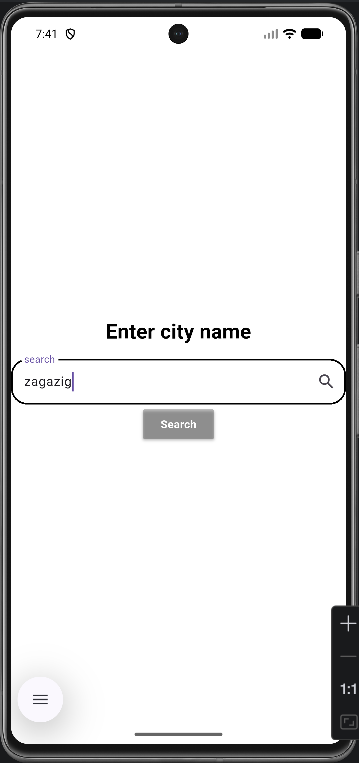
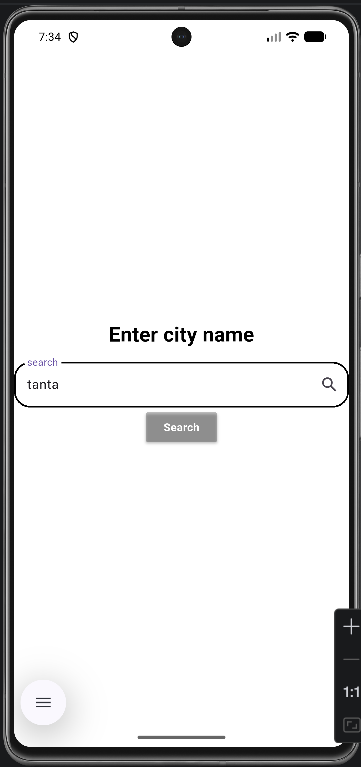
updating

Changed region(s): [[0.0, 0.0, 1.0, 1.0], [0.0919, 0.9043, 0.1532, 0.9345]]

diff --git a/Task-19/weather_app/lib/screens/Home.dart b/Task-19/weather_app/lib/screens/Home.dart
@@ -15,165 +15,179 @@ class _HomeState extends State<Home> {
   Widget build(BuildContext context) {
     var list = widget.weatherModel.forecastDay[0].hour;
     return Scaffold(
-      backgroundColor: Colors.teal[100],
-      body: Padding(
-        padding: const EdgeInsets.only(
-          top: 50,
-          right: 20,
-          left: 20,
-          bottom: 20
+      backgroundColor: Colors.transparent,
+      body: Container(
+        width: double.infinity,
+        height: double.infinity,
+        decoration: const BoxDecoration(
+          image: DecorationImage(
+            image: AssetImage('images/sky.png'),
+            fit: BoxFit.cover,
+          ),
         ),
-        child: Column(
-          children: [
-            Container(
-              padding: EdgeInsets.symmetric(
-                vertical: 5,
-                horizontal: 20
-              ),
-              width: double.infinity,
-              height: 30,
-              decoration: BoxDecoration(
-                borderRadius: BorderRadius.circular(12),
-                color: Colors.black26,
-              ),
-              child: Text("Today\'s weather",style: TextStyle(
-                color: Colors.white,
-              ),),
-            ),
-            SizedBox(height: 15,),
-            AnimatedContainer(
-              duration: Duration(seconds: 1),
-              padding: EdgeInsets.all(20),
-              decoration: BoxDecoration(
+        child: Padding(
+          padding: const EdgeInsets.only(
+            top: 50,
+            right: 20,
+            left: 20,
+            bottom: 20
+          ),
+          child: Column(
+            children: [
+              Container(
+                padding: EdgeInsets.symmetric(
+                  vertical: 5,
+                  horizontal: 20
+                ),
+                width: double.infinity,
+                height: 30,
+                decoration: BoxDecoration(
                   borderRadius: BorderRadius.circular(12),
-                  color: Colors.black26
+                  color: Colors.black26,
+                ),
+                child: Text("Today\'s weather",style: TextStyle(
+                  color: Colors.white,
+                  fontWeight: FontWeight.bold
+                ),),
               ),
-              width: double.infinity,
-              height: isClicked == true ? 300 : 550,
-              child: Column(
-                crossAxisAlignment: CrossAxisAlignment.start,
-                children: [
-                  Text(widget.weatherModel.name,style: TextStyle(
-                      fontSize: 35,
-                      color: Colors.white,
-                      fontWeight: FontWeight.bold),),
-                  Text('${widget.weatherModel.region},${widget.weatherModel.country}',style: TextStyle(
-                      fontSize: 15,
-                      color: Colors.black26,
-                      fontWeight: FontWeight(800)),),
-                  Text('${widget.weatherModel.tempC}°c',style: TextStyle(
-                      fontSize: 60,
-                      color: Colors.black54,
-                      fontWeight: FontWeight(900)),),
-                  Row(
-                    children: [
-                      Image(image: NetworkImage('https:${widget.weatherModel.mainIcon}'),width: 50,),
-                      Text('sunny',style: TextStyle(
-                          fontSize: 25,
-                          color: Colors.white,
-                          fontWeight: FontWeight.normal),),
-                      Spacer(),
-                      InkWell(
-                        onTap: (){
-                          setState(() {
-                            isClicked = !isClicked ;
-                          });
-                        },
-                        child: Row(
-                          children: [
-                            Icon(Icons.keyboard_arrow_down,color: Colors.white,),
-                            Text('see details',style: TextStyle(
-                                fontSize: 15,
-                                color: Colors.white,
-                                fontWeight: FontWeight.normal),),
-                          ],
-                        ),
-                      ),
-                    ],
-                  ),
-                  SizedBox(height: 10,),
-                  Expanded(
-                    child: ListView.separated(
-                        itemBuilder: (context, index)=> Row(
-                          mainAxisAlignment: MainAxisAlignment.spaceBetween,
-                          children: [
-                            index > 11 ? Text('${list[index].time.split(' ')[1].split(':')[0]} PM',
-                              style: TextStyle(
-                                  fontSize: 20,
+              SizedBox(height: 15,),
+              AnimatedContainer(
+                duration: Duration(seconds: 1),
+                padding: EdgeInsets.all(20),
+                decoration: BoxDecoration(
+                    borderRadius: BorderRadius.circular(12),
+                    color: Colors.black26
+                ),
+                width: double.infinity,
+                height: isClicked == true ? 300 : 550,
+                child: Column(
+                  crossAxisAlignment: CrossAxisAlignment.start,
+                  children: [
+                    Text(widget.weatherModel.name,style: TextStyle(
+                        fontSize: 30,
+                        color: Colors.white,
+                        fontWeight: FontWeight.bold),),
+                    Text('${widget.weatherModel.region},${widget.weatherModel.country}',style: TextStyle(
+                        fontSize: 15,
+                        color: Colors.black54,
+                        fontWeight: FontWeight(800)),),
+                    Text('${widget.weatherModel.tempC}°c',style: TextStyle(
+                        fontSize: 60,
+                        color: Colors.black87,
+                        fontWeight: FontWeight(900)),),
+                    Row(
+                      children: [
+                        Image(image: NetworkImage('https:${widget.weatherModel.mainIcon}'),width: 50,),
+                        Text('sunny',style: TextStyle(
+                            fontSize: 25,
+                            color: Colors.white,
+                            fontWeight: FontWeight.normal),),
+                        Spacer(),
+                        InkWell(
+                          onTap: (){
+                            setState(() {
+                              isClicked = !isClicked ;
+                            });
+                          },
+                          child: Row(
+                            children: [
+                              Icon(Icons.keyboard_arrow_down,color: Colors.white,),
+                              Text('see details',style: TextStyle(
+                                  fontSize: 15,
                                   color: Colors.white,
-                                  fontWeight: FontWeight.bold),): Text('${list[index].time.split(' ')[1].split(':')[0]} AM',
-                              style: TextStyle(
+                                  fontWeight: FontWeight.bold),),
+                            ],
+                          ),
+                        ),
+                      ],
+                    ),
+                    SizedBox(height: 10,),
+                    Expanded(
+                      child: ListView.separated(
+                          itemBuilder: (context, index)=> Row(
+                            mainAxisAlignment: MainAxisAlignment.spaceBetween,
+                            children: [
+                              index > 11 ? Text('${list[index].time.split(' ')[1].split(':')[0]} PM',
+                                style: TextStyle(
+                                    fontSize: 20,
+                                    color: Colors.white,
+                                    fontWeight: FontWeight.bold),): Text('${list[index].time.split(' ')[1].split(':')[0]} AM',
+                                style: TextStyle(
+                                    fontSize: 20,
+                                    color: Colors.white,
+                                    fontWeight: FontWeight.bold),),
+                              Text('${list[index].temp}°',style: TextStyle(
                                   fontSize: 20,
                                   color: Colors.white,
                                   fontWeight: FontWeight.bold),),
-                            Text('${list[index].temp}°',style: TextStyle(
-                                fontSize: 20,
-                                color: Colors.white,
-                                fontWeight: FontWeight.bold),),
-                            Image(image: NetworkImage('https:${list[index].icon}'),width: 50,),
-                          ],
-                        ),
-                        separatorBuilder: (context, index)=> Padding(padding: EdgeInsetsGeometry.symmetric(
-                          horizontal: 50,
-                          vertical: 5
-                        ),
-                        child: Container(
-                          width: double.infinity,
-                          height: 1,
-                          color: Colors.grey,
+                              Image(image: NetworkImage('https:${list[index].icon}'),width: 50,),
+                            ],
+                          ),
+                          separatorBuilder: (context, index)=> Padding(padding: EdgeInsetsGeometry.symmetric(
+                            horizontal: 50,
+                            vertical: 5
+                          ),
+                          child: Container(
+                            width: double.infinity,
+                            height: 1,
+                            color: Colors.grey,
 
-                        ),),
-                        itemCount: list.length),
-                  ),
-                ],
-              ),
-            ),
-            SizedBox(height: 15,),
-            Container(
-              padding: EdgeInsets.symmetric(
-                  vertical: 5,
-                  horizontal: 20
-              ),
-              width: double.infinity,
-              height: 30,
-              decoration: BoxDecoration(
-                borderRadius: BorderRadius.circular(12),
-                color: Colors.black26,
-              ),
-              child: Text("weather this week",style: TextStyle(
-                color: Colors.white,
-              ),),
-            ),
-            SizedBox(height: 15,),
-            Container(
-              width: double.infinity,
-              height: 160,
-              child: ListView.separated(
-                scrollDirection: Axis.horizontal,
-                  itemBuilder: (context,index)=> Container(
-                padding: EdgeInsets.all(5),
-                width: 120,
-                height: 160,
-                decoration: BoxDecoration(color: Colors.black26,borderRadius: BorderRadius.circular(12)),
-                child: Column(
-                  mainAxisAlignment: MainAxisAlignment.start,
-                  children: [
-                    Text("Friday",style: TextStyle(
-                      color: Colors.white,
-                    ),),
-                    Text(widget.weatherModel.forecastDay[index].date,style: TextStyle(
-                      color: Colors.white,
-                    ),),
-                    Image(image: NetworkImage('https:${widget.weatherModel.forecastDay[index].listIcon}'),width: 50,),
-                    Text("${widget.weatherModel.forecastDay[index].avgT}°",style: TextStyle(
-                      color: Colors.white,
-                    ),),
+                          ),),
+                          itemCount: list.length),
+                    ),
                   ],
                 ),
               ),
-                      itemCount: widget.weatherModel.forecastDay.length, separatorBuilder: (context, index)=> SizedBox(width: 15,)
-            )
-            )],
+              SizedBox(height: 15,),
+              Container(
+                padding: EdgeInsets.symmetric(
+                    vertical: 5,
+                    horizontal: 20
+                ),
+                width: double.infinity,
+                height: 30,
+                decoration: BoxDecoration(
+                  borderRadius: BorderRadius.circular(12),
+                  color: Colors.black26,
+                ),
+                child: Text("weather this week",style: TextStyle(
+                  color: Colors.white,
+                  fontWeight: FontWeight.bold
+                ),),
+              ),
+              SizedBox(height: 15,),
+              Container(
+                width: double.infinity,
+                height: 160,
+                child: ListView.separated(
+                  scrollDirection: Axis.horizontal,
+                    itemBuilder: (context,index)=> Container(
+                  padding: EdgeInsets.all(5),
+                  width: 120,
+                  height: 160,
+                  decoration: BoxDecoration(color: Colors.black26,borderRadius: BorderRadius.circular(12)),
+                  child: Column(
+                    mainAxisAlignment: MainAxisAlignment.start,
+                    children: [
+                      Text("Friday",style: TextStyle(
+                        color: Colors.white,
+                      ),),
+                      Text(widget.weatherModel.forecastDay[index].date,style: TextStyle(
+                        color: Colors.white,
+                        fontWeight: FontWeight.bold
+                      ),),
+                      Image(image: NetworkImage('https:${widget.weatherModel.forecastDay[index].listIcon}'),width: 50,),
+                      Text("${widget.weatherModel.forecastDay[index].avgT}°",style: TextStyle(
+                        color: Colors.white,
+                        fontWeight: FontWeight.bold
+                      ),),
+                    ],
+                  ),
+                ),
+                        itemCount: widget.weatherModel.forecastDay.length, separatorBuilder: (context, index)=> SizedBox(width: 15,)
+              )
+              )],
+          ),
         ),
       ),
     );